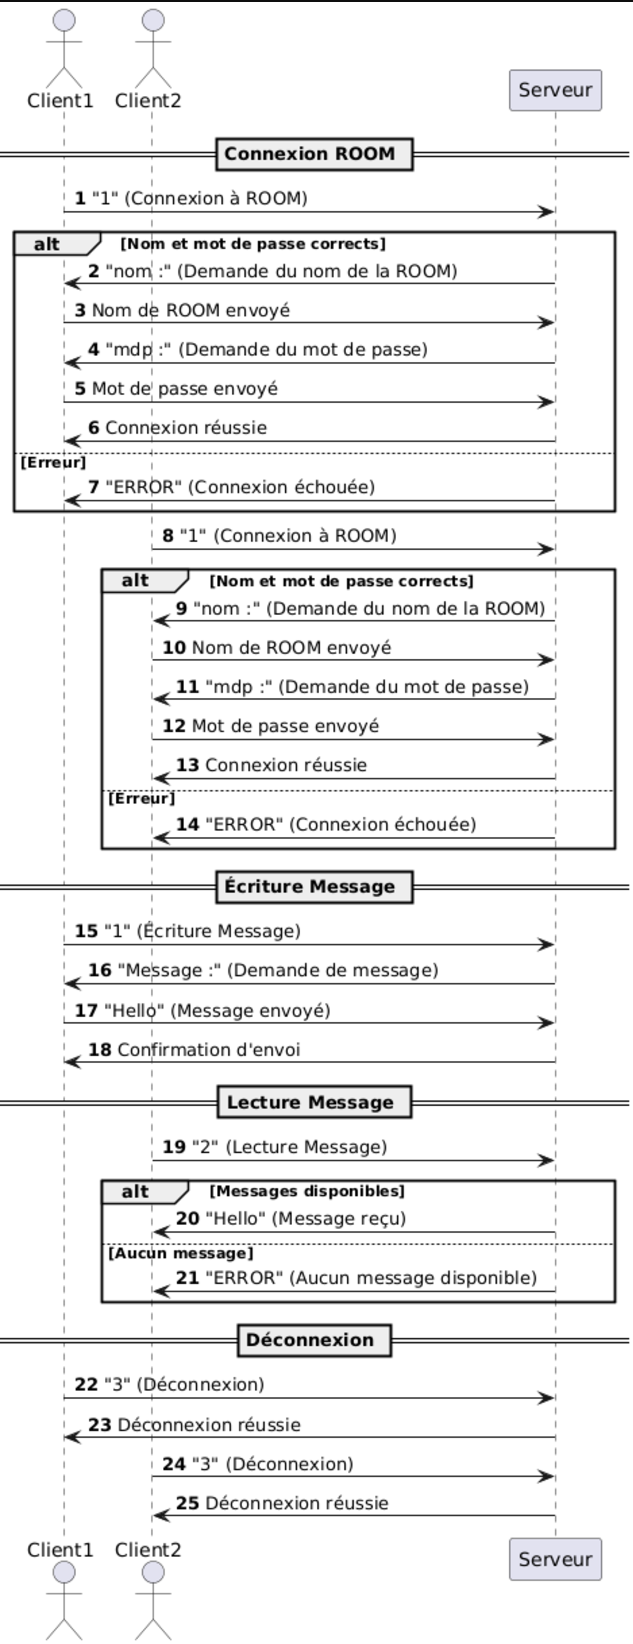
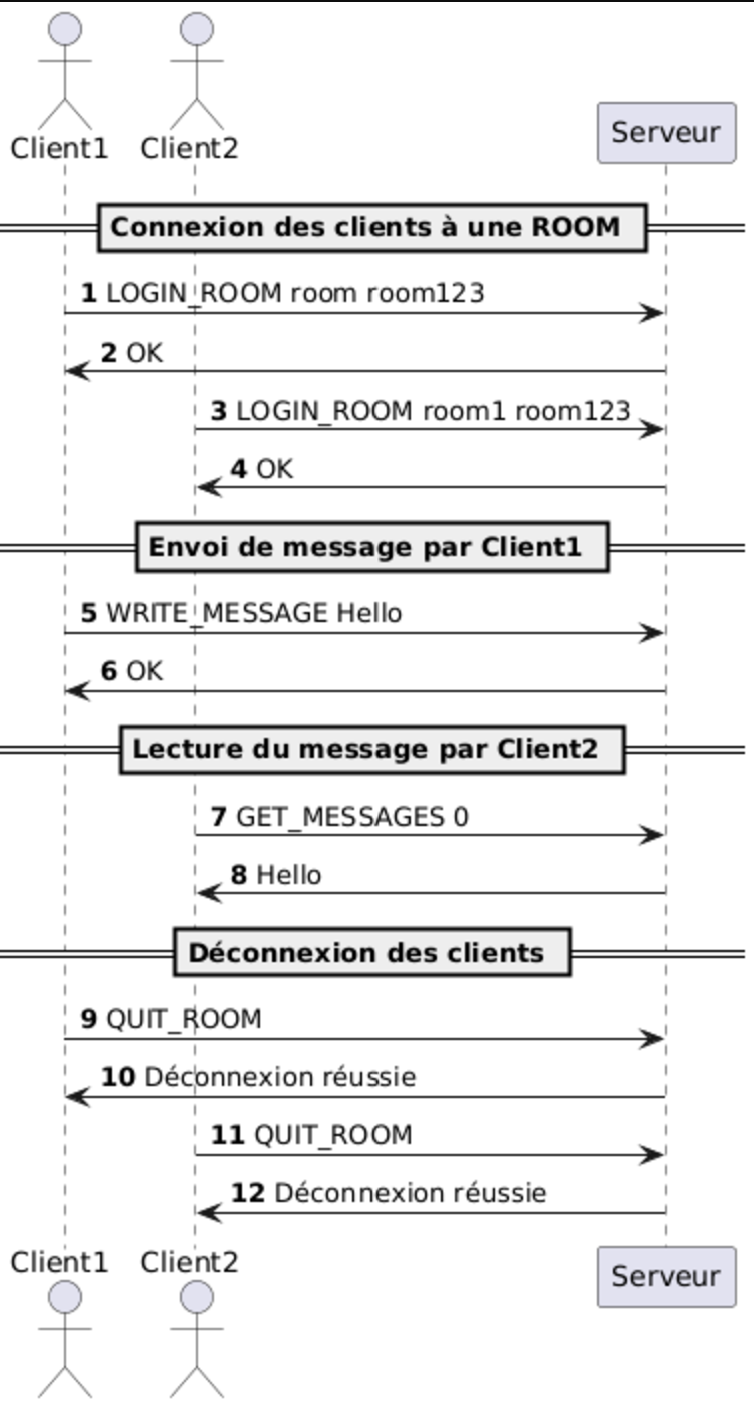
modification protocol

Changed region(s): [[0.0, 0.0, 0.9905, 1.0]]

diff --git a/applicationProtocol.md b/applicationProtocol.md
@@ -8,6 +8,172 @@ Le "ROOM messenger" protocol est un protocol permettant une discussion entre un 
 
 Ce protocol utilise TCP pour la communication.\
 L'adresse IP connectée par défaut est "localhost", mais chaque client peut utiliser une autre adresse si il le souhaite.\
+Pour ce qui est du port, le protocol se connecte par défaut au port 1234 mais comme pour l'adresse IP, le client peut choisir
+le port de connexion.\
+Les messages sont encodés en UTF-8, permettant l'utilisation de symboles dans les messages.\
+Le client se connecte au serveur grace à son pseudo et son mot de passe. Il a également la possibilité de créer ces derniers
+si c'est sa première connexion.\
+Si lors d'une connexion le nom d'utilisateur n'existe pas ou que le mot de passe entrée est faux, une erreur sera envoyée au client.\
+Pareil pour une première connexion, si le nom entrée existe déjà, une erreur sera envoyée au client.\
+Il pourra ensuite se connecter à une ROOM ou en créer une, au choix.\
+Si la ROOM n'existe pas ou que le mot de passe entré est faux, une erreur sera envoyée au client.\
+Chaque ROOM est définie par un nom et un mot de passe permettant d'y accéder.\
+Lorsqu'un client rejoins une ROOM, il peut alors soit envoyer des messages, soit demander de recevoir les messages ayant été écrits dans la ROOM
+ou encore un historique complet des discussions de cette ROOM. \
+Le client peut quitter la ROOM quand il le souhaite.
+
+
+## Section 3 - Messages
+
+### Première serie de commande :
+### Login
+Le client se login au serveur
+
+#### Request
+
+```text
+LOGIN_USER <login> <password>
+```
+#### Response
+- `OK`
+
+- `ERROR <errormessage>` : une erreur est apparue. Le message d'erreur peut être :
+  - Invalid login : le login n'existe pas
+  - Invalid password : le mdp est incorrect
+
+
+### Register
+Le client se register au serveur
+
+#### Request
+```text
+REGISTER_USER <login> <password>
+```
+#### Response
+- `OK`
+- `ERROR User already exists` : une erreur apparaît si le nom entré existe déjà
+
+
+### Déconnexion
+Le client se déconnecte
+
+#### Request
+```text
+QUIT
+```
+#### Response
+None.
+
+
+
+### Deuxième serie de commande :
+### Connexion ROOM
+Le client se connecte à une ROOM
+
+#### Request
+
+```text
+LOGIN_ROOM <name> <password>
+```
+
+#### Response
+- `OK`
+- `ERROR <error message>` : une erreur est apparue. Le code message d'erreur peut-être :
+  - Invalid password : le nom entré ne correspond à aucune ROOM
+  - Invalid ROOM name : le mot de passe est incorrect
+
+
+### Création ROOM
+Le client crée une ROOM
+
+#### Request
+```text
+REGISTER_ROOM <nom> <mdp>
+```
+
+1. `nom :` : le est client prié d'indiquer le nom de la ROOM.\
+2. `mdp :` : le est client prié de créer un nouveau mot de passe.\
+
+#### Response
+- `OK`
+- `ERROR <error message>` : une erreur apparaît si le nom entré existe déjà
+  (1) Impossible de créer la salle : le nom entré ne correspond à aucune ROOM\
+  (2) ROOM alrready exists : le mot de passe est incorrect\
+
+
+### Déconnexion
+Le client se déconnecte
+
+#### Request
+```text
+QUIT
+```
+#### Response
+None.
+
+
+### Troisième serie de commande :
+### Ecriture de message
+Le client écrit un message dans une ROOM
+
+#### Request
+
+```text
+WRITE_MESSAGE <message>
+```
+#### Response
+- `OK` 
+- `ERROR Impossible d'ajouter le message` : une erreur est apparue car le message ne s'est pas envoyé correctement.
+
+
+### Lecture de message
+Le client lit un message dans une ROOM
+
+#### Request
+```text
+GET_MESSAGES <first line>
+```
+#### Response
+- Le serveur envoie au client un array des messages écrits sur la ROOM, à partir de la line indiquée.
+- `ERROR Invalid line number` : une erreur apparaît car il y a eu un problème lors de la lecture d'un message.
+
+
+### Déconnexion de la ROOM
+Le client se déconnecte de la ROOM
+
+#### Request
+```text
+QUIT
+```
+#### Response
+- None. 
+
+## Section 4 - Examples
+
+### Exemple première serie de commande :
+
+![Serie 1 example](./images/DAI_Serie1.png)
+
+### Exemple deuxième serie de commande :
+
+![Serie 2 example](./images/DAI_Serie2.png)
+
+### Exemple troisième serie de commande :
+
+![Serie 3 example](./images/DAI_Serie3.png)
+
+### Exemple discussion entre 2 clients :
+
+![Discuss example](./images/DAI_2Clients.png)# THE "ROOM MESSENGER" PROTOCOL
+
+## Section 1 - Overview
+
+Le "ROOM messenger" protocol est un protocol permettant une discussion entre un nombre indéfini de personnes au travers de ROOMS.
+
+## Section 2 - Transport protocol
+
+Ce protocol utilise TCP pour la communication.\
+L'adresse IP connectée par défaut est "localhost", mais chaque client peut utiliser une autre adresse si il le souhaite.\
 Pour ce qui est du port, le protocol se connecte par défaut au port 1234 mais comme pour l'adresse IP, le client peut choisir 
 le port de connexion.\
 Les messages sont encodés en UTF-8, permettant l'utilisation de symboles dans les messages.\
